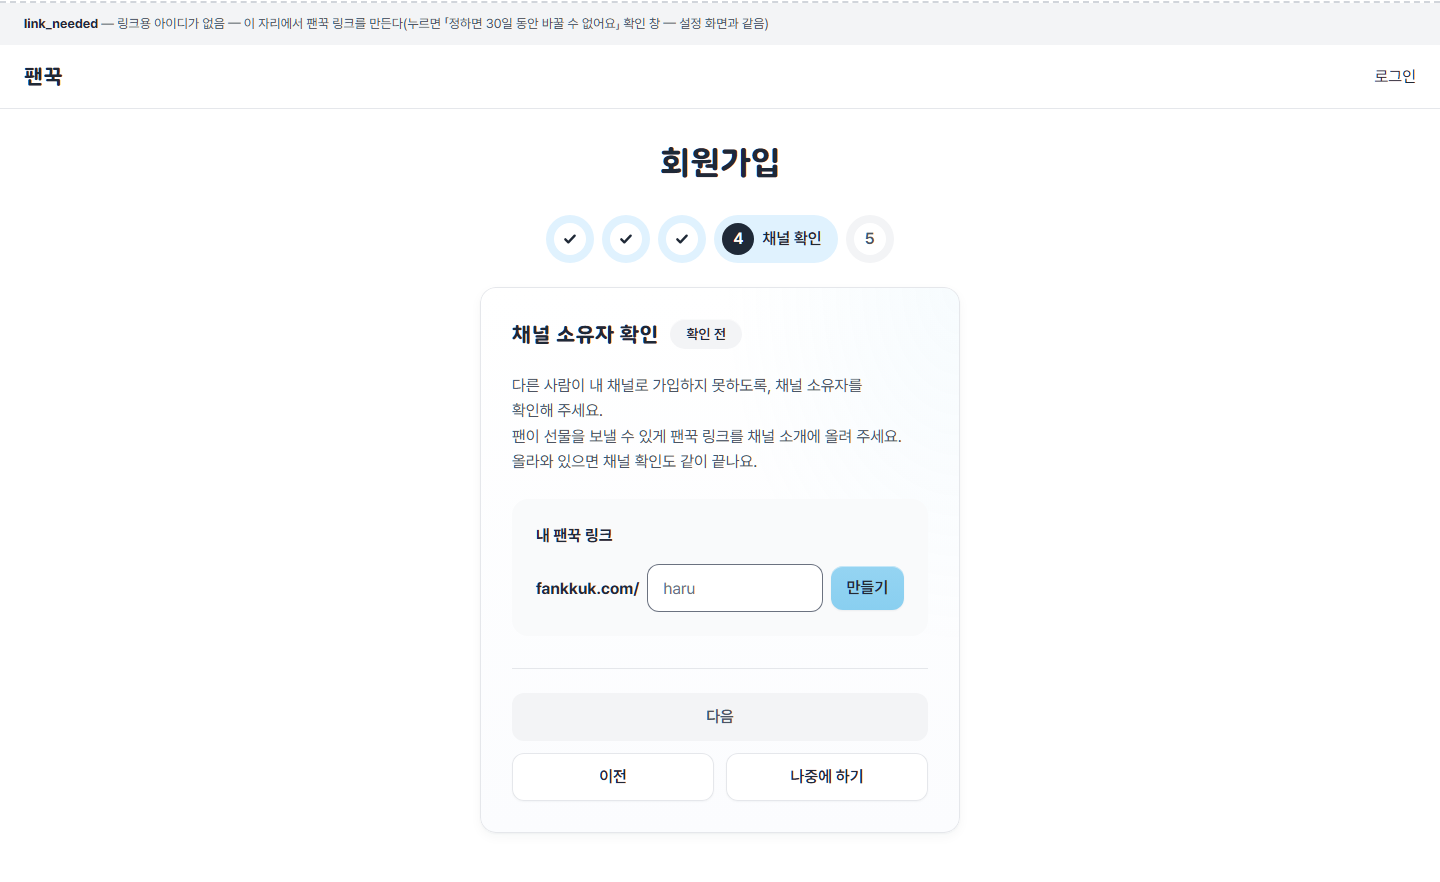
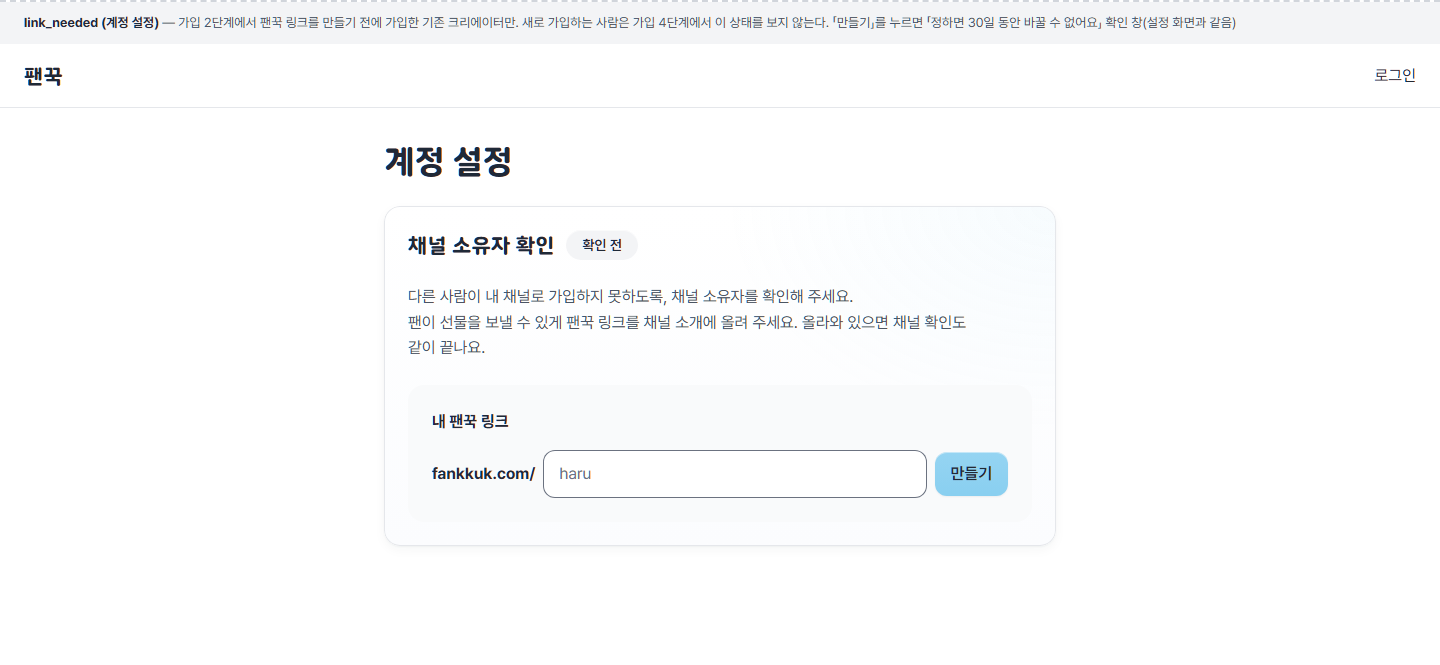
docs(fankkuk): 채널 확인 시안 — 팬꾹 링크 만들기 상태는 계정 설정(기존 크리에이터)에만

diff --git a/projects/fankkuk/docs/design/mockups/channel-link-verify-20261102/index.html b/projects/fankkuk/docs/design/mockups/channel-link-verify-20261102/index.html
@@ -4,7 +4,7 @@
 <link rel="stylesheet" href="https://cdn.jsdelivr.net/gh/orioncactus/pretendard@v1.3.9/dist/web/variable/pretendardvariable.min.css">
 <link rel="stylesheet" href="styles.css"></head><body>
 <!-- 근거: docs/ux/pages/signup.md · handle.md 「2026-11-02 채널 확인 개정안」. 쪽지 코드 칸 없음. 새 토큰·부품 없음(styles.css 는 v43 가입 시안 CSS 를 그대로 복사). 운영자 화면은 admin.html -->
-<header class="v-head"><h1 class="t-title">채널 확인 — 선물 링크 게시 확인</h1><ol><li><a href="#signup-2">가입 2단계</a></li><li><a href="#link-needed">link_needed</a></li><li><a href="#idle-empty">idle (1/3)</a></li><li><a href="#idle-youtube">idle (2/3)</a></li><li><a href="#idle-chzzk">idle (3/3)</a></li><li><a href="#waiting">waiting</a></li><li><a href="#rejected">rejected</a></li><li><a href="#verified">verified (가입 4단계)</a></li><li><a href="#locked">locked</a></li><li><a href="#acct-verified">verified (계정 설정)</a></li><li><a href="#acct-recheck">recheck_missing</a></li><li><a href="#profile-verifying">verifying (선물 링크 페이지 fankkuk.com/haru)</a></li><li><a href="admin.html">운영자 화면(admin.html)</a></li></ol></header>
+<header class="v-head"><h1 class="t-title">채널 확인 — 선물 링크 게시 확인</h1><ol><li><a href="#signup-2">가입 2단계</a></li><li><a href="#link-needed">link_needed (계정 설정)</a></li><li><a href="#idle-empty">idle (1/3)</a></li><li><a href="#idle-youtube">idle (2/3)</a></li><li><a href="#idle-chzzk">idle (3/3)</a></li><li><a href="#waiting">waiting</a></li><li><a href="#rejected">rejected</a></li><li><a href="#verified">verified (가입 4단계)</a></li><li><a href="#locked">locked</a></li><li><a href="#acct-verified">verified (계정 설정)</a></li><li><a href="#acct-recheck">recheck_missing</a></li><li><a href="#profile-verifying">verifying (선물 링크 페이지 fankkuk.com/haru)</a></li><li><a href="admin.html">운영자 화면(admin.html)</a></li></ol></header>
 <section class="v-state" id="signup-2"><span class="v-label"><b>가입 2단계 (크리에이터)</b> — 바뀌는 칸만: 칸 설명은 소제목 바로 아래(입력 칸 위), 꼴 규칙은 입력 칸 아래 · 공개 이름 칸 없음(닉네임으로 합침 — 다음 작업) · 팬꾹 링크 칸 새로</span><div class="v-bar"><b>팬꾹</b><span>로그인</span></div><main><section class="su-page"><div class="container auth su-box"><div class="head"><h1 class="t-title">회원가입</h1></div><nav class="su-steps-wrap" aria-label="가입 단계"><ol class="su-steps su-four"><li><span class="su-st is-done"><span class="su-dot" aria-hidden="true"><svg width="16" height="16" viewBox="0 0 24 24" aria-hidden="true"><path d="m5 12.5 4.5 4.5L19 7" fill="none" stroke="currentColor" stroke-width="3.5" stroke-linecap="round" stroke-linejoin="round"/></svg></span><span class="su-lbl">유형 선택</span></span></li><li><span class="su-st" aria-current="step"><span class="su-dot" aria-hidden="true">2</span><span class="su-lbl">정보 입력</span></span></li><li><span class="su-st"><span class="su-dot" aria-hidden="true">3</span><span class="su-lbl">휴대폰 확인</span></span></li><li><span class="su-st"><span class="su-dot" aria-hidden="true">4</span><span class="su-lbl">채널 확인</span></span></li><li><span class="su-st"><span class="su-dot" aria-hidden="true">5</span><span class="su-lbl">승인 서명</span></span></li></ol></nav><form class="card" onsubmit="return false"><fieldset class="su-step"><legend class="sr-only">정보 입력</legend>
 <h3 class="t-card" style="margin-bottom:16px">계정</h3><div class="form">
 <div><label class="label" for="s2-id">아이디</label><p class="v-desc">로그인에 사용하는 아이디입니다. 다른 사람에게는 보이지 않습니다.</p><input class="field" id="s2-id" value="haru_game"><p class="hint">영문 소문자·숫자·밑줄(_) 4~20자 · 가입 후 변경할 수 없습니다.</p></div>
@@ -15,7 +15,7 @@
 <div><label class="label" for="s2-link">팬꾹 링크</label><p class="v-desc">팬들이 내 팬꾹 페이지로 찾아오는 주소입니다. 채널 소개에 올려 주세요.</p><div class="vp-handle"><span class="pre">fankkuk.com/</span><input class="field" id="s2-link" placeholder="haru" value="haru"></div><p class="hint">로그인 아이디와 다르게 정해 주세요. 가입 후 30일 동안은 변경할 수 없습니다.</p></div>
 <p class="hint" style="margin:0">팬덤 이름·태그는 지금 문구를 유지합니다.</p></div>
 </fieldset><div class="su-step-actions"><button class="btn btn--line" type="button">이전</button><button class="btn su-next" type="submit">다음</button></div></form></div></section></main></section>
-<section class="v-state" id="link-needed"><span class="v-label"><b>link_needed</b> — 링크용 아이디가 없음 — 이 자리에서 팬꾹 링크를 만든다(누르면 「정하면 30일 동안 바꿀 수 없어요」 확인 창 — 설정 화면과 같음)</span><div class="v-bar"><b>팬꾹</b><span>로그인</span></div><main><section class="su-page"><div class="container auth su-box"><div class="head"><h1 class="t-title">회원가입</h1></div><nav class="su-steps-wrap" aria-label="가입 단계"><ol class="su-steps su-four"><li><span class="su-st is-done"><span class="su-dot" aria-hidden="true"><svg width="16" height="16" viewBox="0 0 24 24" aria-hidden="true"><path d="m5 12.5 4.5 4.5L19 7" fill="none" stroke="currentColor" stroke-width="3.5" stroke-linecap="round" stroke-linejoin="round"/></svg></span><span class="su-lbl">유형 선택</span></span></li><li><span class="su-st is-done"><span class="su-dot" aria-hidden="true"><svg width="16" height="16" viewBox="0 0 24 24" aria-hidden="true"><path d="m5 12.5 4.5 4.5L19 7" fill="none" stroke="currentColor" stroke-width="3.5" stroke-linecap="round" stroke-linejoin="round"/></svg></span><span class="su-lbl">정보 입력</span></span></li><li><span class="su-st is-done"><span class="su-dot" aria-hidden="true"><svg width="16" height="16" viewBox="0 0 24 24" aria-hidden="true"><path d="m5 12.5 4.5 4.5L19 7" fill="none" stroke="currentColor" stroke-width="3.5" stroke-linecap="round" stroke-linejoin="round"/></svg></span><span class="su-lbl">휴대폰 확인</span></span></li><li><span class="su-st" aria-current="step"><span class="su-dot" aria-hidden="true">4</span><span class="su-lbl">채널 확인</span></span></li><li><span class="su-st"><span class="su-dot" aria-hidden="true">5</span><span class="su-lbl">승인 서명</span></span></li></ol></nav><form class="card" onsubmit="return false"><fieldset class="su-step"><legend class="sr-only">채널 소유자 확인</legend><div class="vp-head"><h2 class="t-card">채널 소유자 확인</h2><span class="tag">확인 전</span></div><p class="sub su-lead">다른 사람이 내 채널로 가입하지 못하도록, 채널 소유자를 확인해 주세요.<br>팬이 선물을 보낼 수 있게 팬꾹 링크를 채널 소개에 올려 주세요. 올라와 있으면 채널 확인도 같이 끝나요.</p><div class="vp-box"><label class="vp-label" for="h0">내 팬꾹 링크</label><div class="vp-handle"><span class="pre">fankkuk.com/</span><input class="field" id="h0" placeholder="haru"><button class="btn btn--sm" type="button">만들기</button></div></div></fieldset><div class="v-kakao-actions v-three"><button class="btn btn--line" type="button">이전</button><button class="btn btn--line" type="button">나중에 하기</button><button class="btn su-next v-main" type="submit" aria-disabled="true">다음</button></div></form></div></section></main></section>
+<section class="v-state" id="link-needed"><span class="v-label"><b>link_needed (계정 설정)</b> — 가입 2단계에서 팬꾹 링크를 만들기 전에 가입한 기존 크리에이터만. 새로 가입하는 사람은 가입 4단계에서 이 상태를 보지 않는다. 「만들기」를 누르면 「정하면 30일 동안 바꿀 수 없어요」 확인 창(설정 화면과 같음)</span><div class="v-bar"><b>팬꾹</b><span>로그인</span></div><main><div class="v-wrap720"><div class="head" style="margin-bottom:24px"><h1 class="t-title">계정 설정</h1></div><section class="card"><fieldset class="su-step" style="margin:0"><legend class="sr-only">채널 소유자 확인</legend><div class="vp-head"><h2 class="t-card">채널 소유자 확인</h2><span class="tag">확인 전</span></div><p class="sub su-lead">다른 사람이 내 채널로 가입하지 못하도록, 채널 소유자를 확인해 주세요.<br>팬이 선물을 보낼 수 있게 팬꾹 링크를 채널 소개에 올려 주세요. 올라와 있으면 채널 확인도 같이 끝나요.</p><div class="vp-box"><label class="vp-label" for="h0">내 팬꾹 링크</label><div class="vp-handle"><span class="pre">fankkuk.com/</span><input class="field" id="h0" placeholder="haru"><button class="btn btn--sm" type="button">만들기</button></div></div></fieldset></section></div></main></section>
 <section class="v-state" id="idle-empty"><span class="v-label"><b>idle (1/3)</b> — 확인 전 — 채널 주소 입력 전</span><div class="v-bar"><b>팬꾹</b><span>로그인</span></div><main><section class="su-page"><div class="container auth su-box"><div class="head"><h1 class="t-title">회원가입</h1></div><nav class="su-steps-wrap" aria-label="가입 단계"><ol class="su-steps su-four"><li><span class="su-st is-done"><span class="su-dot" aria-hidden="true"><svg width="16" height="16" viewBox="0 0 24 24" aria-hidden="true"><path d="m5 12.5 4.5 4.5L19 7" fill="none" stroke="currentColor" stroke-width="3.5" stroke-linecap="round" stroke-linejoin="round"/></svg></span><span class="su-lbl">유형 선택</span></span></li><li><span class="su-st is-done"><span class="su-dot" aria-hidden="true"><svg width="16" height="16" viewBox="0 0 24 24" aria-hidden="true"><path d="m5 12.5 4.5 4.5L19 7" fill="none" stroke="currentColor" stroke-width="3.5" stroke-linecap="round" stroke-linejoin="round"/></svg></span><span class="su-lbl">정보 입력</span></span></li><li><span class="su-st is-done"><span class="su-dot" aria-hidden="true"><svg width="16" height="16" viewBox="0 0 24 24" aria-hidden="true"><path d="m5 12.5 4.5 4.5L19 7" fill="none" stroke="currentColor" stroke-width="3.5" stroke-linecap="round" stroke-linejoin="round"/></svg></span><span class="su-lbl">휴대폰 확인</span></span></li><li><span class="su-st" aria-current="step"><span class="su-dot" aria-hidden="true">4</span><span class="su-lbl">채널 확인</span></span></li><li><span class="su-st"><span class="su-dot" aria-hidden="true">5</span><span class="su-lbl">승인 서명</span></span></li></ol></nav><form class="card" onsubmit="return false"><fieldset class="su-step"><legend class="sr-only">채널 소유자 확인</legend><div class="vp-head"><h2 class="t-card">채널 소유자 확인</h2><span class="tag">확인 전</span></div><p class="sub su-lead">다른 사람이 내 채널로 가입하지 못하도록, 채널 소유자를 확인해 주세요.<br>팬이 선물을 보낼 수 있게 팬꾹 링크를 채널 소개에 올려 주세요. 올라와 있으면 채널 확인도 같이 끝나요.</p><div class="vp-box"><p class="vp-label">내 팬꾹 링크</p><div class="vp-code-row"><span class="vp-link">fankkuk.com/haru</span><button class="btn btn--line btn--sm" type="button">복사</button></div></div><div style="margin-top:24px"><div><label class="label" for="a1">채널 주소</label><input class="field" id="a1" inputmode="url" placeholder="https://www.youtube.com/@핸들" value=""><ul class="vp-examples"><li>유튜브 <code>https://www.youtube.com/@핸들</code></li><li>치지직 <code>https://chzzk.naver.com/채널ID</code></li><li>SOOP <code>https://www.sooplive.co.kr/station/아이디</code></li></ul></div></div><div class="vp-steps"><button class="btn" type="button" aria-disabled="true">확인 요청</button></div></fieldset><div class="v-kakao-actions v-three"><button class="btn btn--line" type="button">이전</button><button class="btn btn--line" type="button">나중에 하기</button><button class="btn su-next v-main" type="submit" aria-disabled="true">다음</button></div></form></div></section></main></section>
 <section class="v-state" id="idle-youtube"><span class="v-label"><b>idle (2/3)</b> — 확인 전 — 유튜브 주소 입력 뒤</span><div class="v-bar"><b>팬꾹</b><span>로그인</span></div><main><section class="su-page"><div class="container auth su-box"><div class="head"><h1 class="t-title">회원가입</h1></div><nav class="su-steps-wrap" aria-label="가입 단계"><ol class="su-steps su-four"><li><span class="su-st is-done"><span class="su-dot" aria-hidden="true"><svg width="16" height="16" viewBox="0 0 24 24" aria-hidden="true"><path d="m5 12.5 4.5 4.5L19 7" fill="none" stroke="currentColor" stroke-width="3.5" stroke-linecap="round" stroke-linejoin="round"/></svg></span><span class="su-lbl">유형 선택</span></span></li><li><span class="su-st is-done"><span class="su-dot" aria-hidden="true"><svg width="16" height="16" viewBox="0 0 24 24" aria-hidden="true"><path d="m5 12.5 4.5 4.5L19 7" fill="none" stroke="currentColor" stroke-width="3.5" stroke-linecap="round" stroke-linejoin="round"/></svg></span><span class="su-lbl">정보 입력</span></span></li><li><span class="su-st is-done"><span class="su-dot" aria-hidden="true"><svg width="16" height="16" viewBox="0 0 24 24" aria-hidden="true"><path d="m5 12.5 4.5 4.5L19 7" fill="none" stroke="currentColor" stroke-width="3.5" stroke-linecap="round" stroke-linejoin="round"/></svg></span><span class="su-lbl">휴대폰 확인</span></span></li><li><span class="su-st" aria-current="step"><span class="su-dot" aria-hidden="true">4</span><span class="su-lbl">채널 확인</span></span></li><li><span class="su-st"><span class="su-dot" aria-hidden="true">5</span><span class="su-lbl">승인 서명</span></span></li></ol></nav><form class="card" onsubmit="return false"><fieldset class="su-step"><legend class="sr-only">채널 소유자 확인</legend><div class="vp-head"><h2 class="t-card">채널 소유자 확인</h2><span class="tag">확인 전</span></div><p class="sub su-lead">다른 사람이 내 채널로 가입하지 못하도록, 채널 소유자를 확인해 주세요.<br>팬이 선물을 보낼 수 있게 팬꾹 링크를 채널 소개에 올려 주세요. 올라와 있으면 채널 확인도 같이 끝나요.</p><div class="vp-box"><p class="vp-label">내 팬꾹 링크</p><div class="vp-code-row"><span class="vp-link">fankkuk.com/haru</span><button class="btn btn--line btn--sm" type="button">복사</button></div></div><div style="margin-top:24px"><div><label class="label" for="a2">채널 주소</label><input class="field" id="a2" inputmode="url" placeholder="https://www.youtube.com/@핸들" value="https://www.youtube.com/@honeypot"><p class="vp-preview">유튜브 · https://www.youtube.com/@honeypot</p></div></div><div class="vp-steps"><button class="btn" type="button">확인 요청</button></div></fieldset><div class="v-kakao-actions v-three"><button class="btn btn--line" type="button">이전</button><button class="btn btn--line" type="button">나중에 하기</button><button class="btn su-next v-main" type="submit" aria-disabled="true">다음</button></div></form></div></section></main></section>
 <section class="v-state" id="idle-chzzk"><span class="v-label"><b>idle (3/3)</b> — 확인 전 — 치지직 주소 + 치지직 로그인 연결이 있을 때</span><div class="v-bar"><b>팬꾹</b><span>로그인</span></div><main><section class="su-page"><div class="container auth su-box"><div class="head"><h1 class="t-title">회원가입</h1></div><nav class="su-steps-wrap" aria-label="가입 단계"><ol class="su-steps su-four"><li><span class="su-st is-done"><span class="su-dot" aria-hidden="true"><svg width="16" height="16" viewBox="0 0 24 24" aria-hidden="true"><path d="m5 12.5 4.5 4.5L19 7" fill="none" stroke="currentColor" stroke-width="3.5" stroke-linecap="round" stroke-linejoin="round"/></svg></span><span class="su-lbl">유형 선택</span></span></li><li><span class="su-st is-done"><span class="su-dot" aria-hidden="true"><svg width="16" height="16" viewBox="0 0 24 24" aria-hidden="true"><path d="m5 12.5 4.5 4.5L19 7" fill="none" stroke="currentColor" stroke-width="3.5" stroke-linecap="round" stroke-linejoin="round"/></svg></span><span class="su-lbl">정보 입력</span></span></li><li><span class="su-st is-done"><span class="su-dot" aria-hidden="true"><svg width="16" height="16" viewBox="0 0 24 24" aria-hidden="true"><path d="m5 12.5 4.5 4.5L19 7" fill="none" stroke="currentColor" stroke-width="3.5" stroke-linecap="round" stroke-linejoin="round"/></svg></span><span class="su-lbl">휴대폰 확인</span></span></li><li><span class="su-st" aria-current="step"><span class="su-dot" aria-hidden="true">4</span><span class="su-lbl">채널 확인</span></span></li><li><span class="su-st"><span class="su-dot" aria-hidden="true">5</span><span class="su-lbl">승인 서명</span></span></li></ol></nav><form class="card" onsubmit="return false"><fieldset class="su-step"><legend class="sr-only">채널 소유자 확인</legend><div class="vp-head"><h2 class="t-card">채널 소유자 확인</h2><span class="tag">확인 전</span></div><p class="sub su-lead">다른 사람이 내 채널로 가입하지 못하도록, 채널 소유자를 확인해 주세요.<br>팬이 선물을 보낼 수 있게 팬꾹 링크를 채널 소개에 올려 주세요. 올라와 있으면 채널 확인도 같이 끝나요.</p><div class="vp-box"><p class="vp-label">내 팬꾹 링크</p><div class="vp-code-row"><span class="vp-link">fankkuk.com/haru</span><button class="btn btn--line btn--sm" type="button">복사</button></div></div><div style="margin-top:24px"><div><label class="label" for="a3">채널 주소</label><input class="field" id="a3" inputmode="url" placeholder="https://www.youtube.com/@핸들" value="https://chzzk.naver.com/9f3a7c21d0b84e"><p class="vp-preview">치지직 · https://chzzk.naver.com/9f3a7c21d0b84e</p></div></div><div class="vp-steps"><button class="btn" type="button">확인 요청</button><div class="vp-or"><button class="btn btn--line" type="button">치지직으로 바로 확인</button></div></div></fieldset><div class="v-kakao-actions v-three"><button class="btn btn--line" type="button">이전</button><button class="btn btn--line" type="button">나중에 하기</button><button class="btn su-next v-main" type="submit" aria-disabled="true">다음</button></div></form></div></section></main></section>
